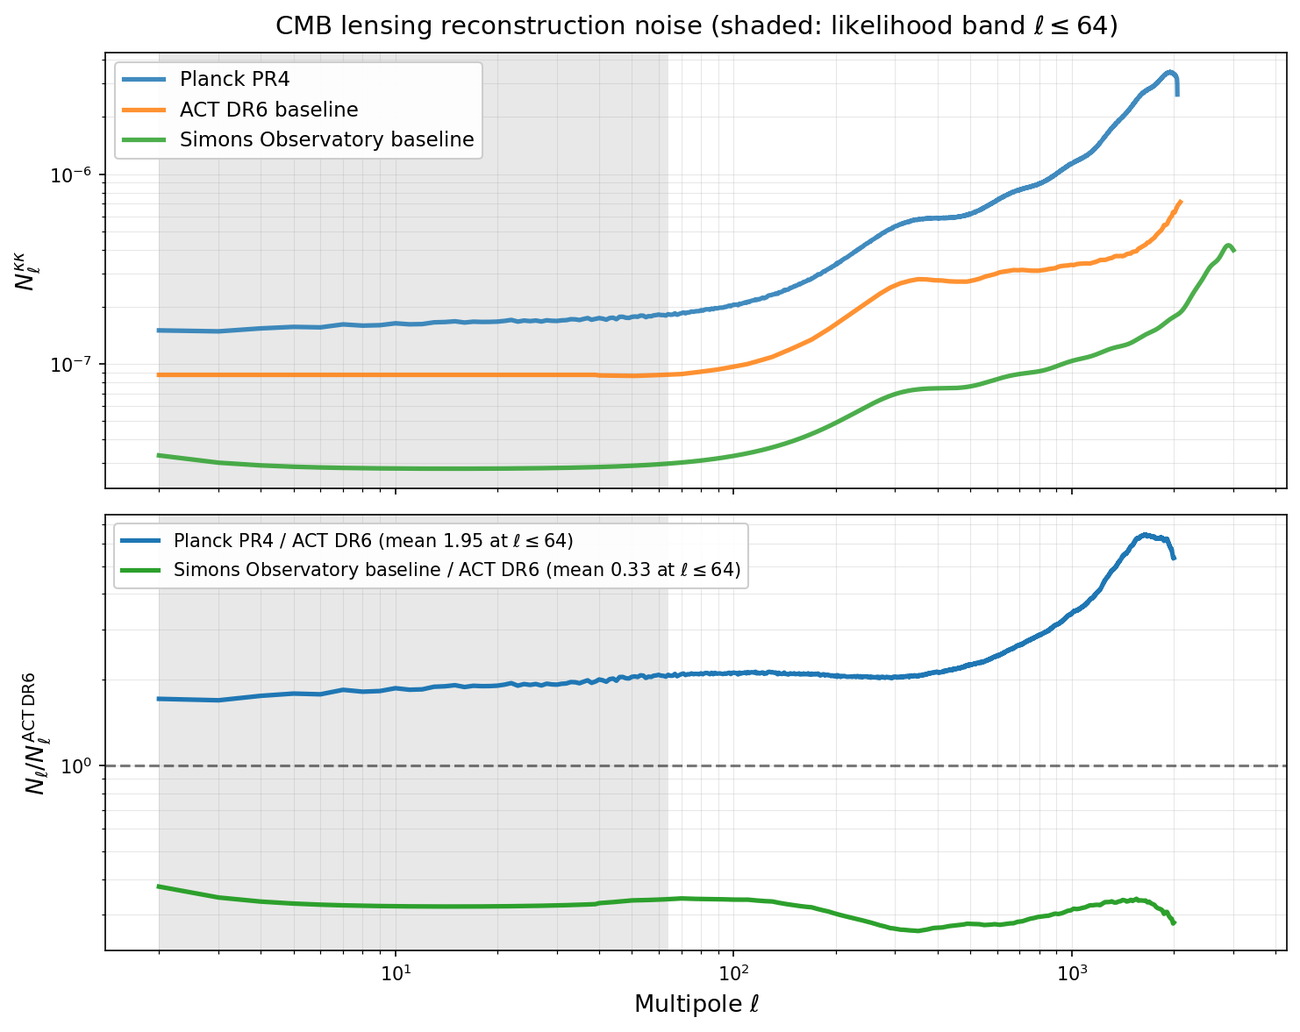
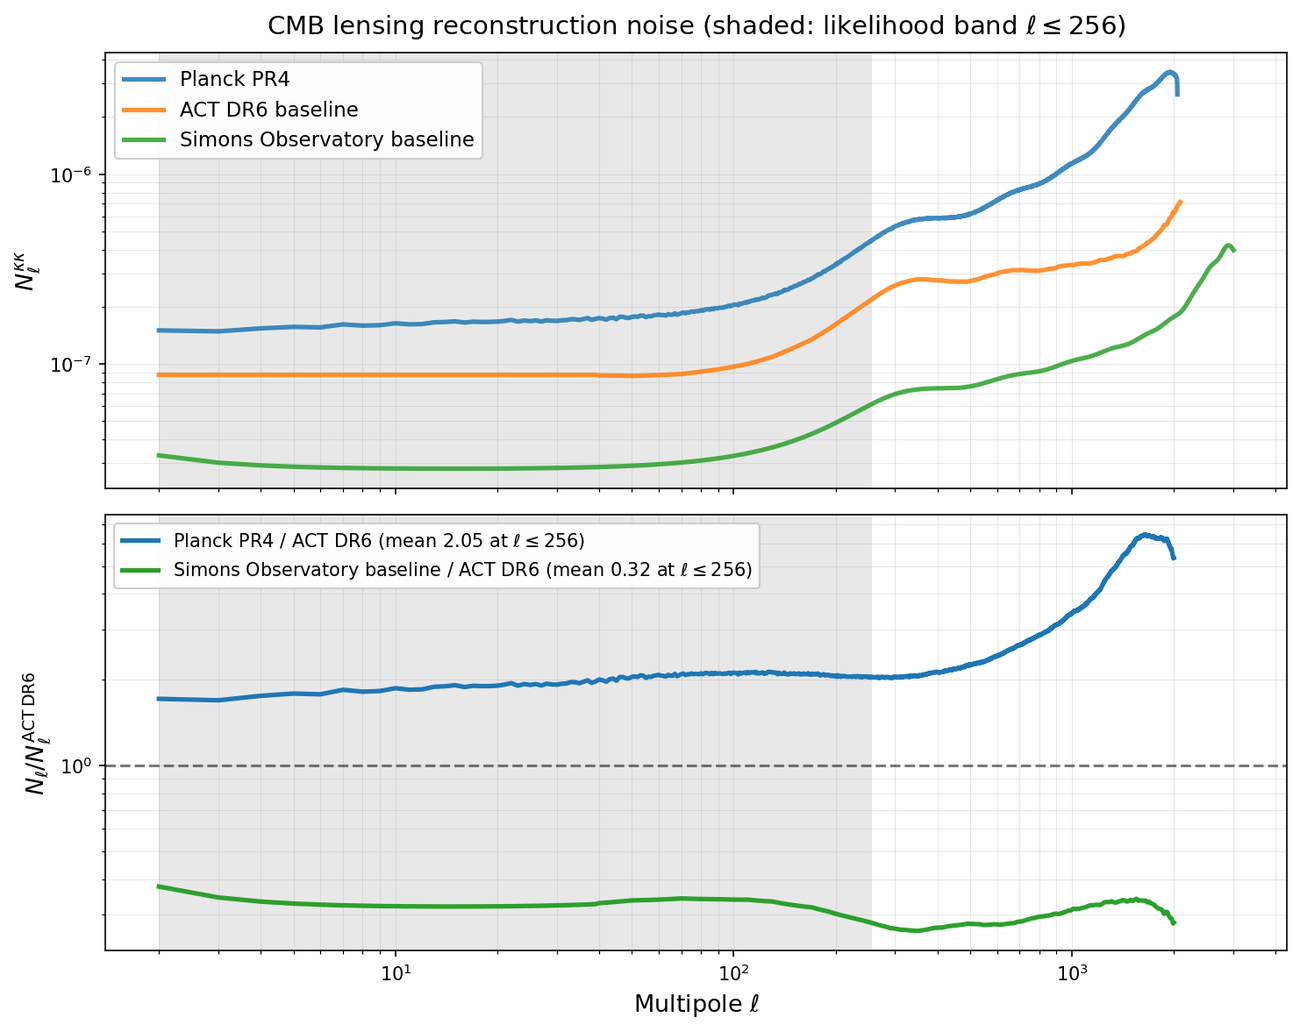
Docs against the code: held noise 0.900/0.214, Fisher with C_l^out as signal for the exact runs, joint true-IC numbers with the shell gains, light cone at the Lagrangian radius, shell cut refused without the LOS term, warm start 2/3 (H. Simon-Onfroy); ph201 closure offset compatible with the realisa

Changed region(s): [[0.2173, 0.0, 0.8691, 0.0306], [0.5587, 0.52, 0.5897, 0.5811], [0.4035, 0.52, 0.4345, 0.5506]]

diff --git a/scripts/plot_cmb_noise_comparison.py b/scripts/plot_cmb_noise_comparison.py
@@ -1,12 +1,15 @@
 #!/usr/bin/env python
 """
-Plot the CMB lensing reconstruction noise of Planck PR4, ACT DR6 and the Simons Observatory baseline.
+Plot the CMB lensing noise of a run config, and the noise of Planck PR4, ACT DR6 and the SO baseline.
 
-Top: N_ell^kappa_kappa of the three; bottom: each over ACT DR6. The shaded band is the multipole range
-of the likelihood (ell <= 2 nside = 64). The SO curve is the file the paper's runs use (pipeline 3.2).
+`cmb_noise_so.png` (the paper's fig:noise): the config's N_ell (the SO baseline in every run of the
+paper), N_ell + C_ell^out (the variance the diagonal likelihood adds per multipole, at the config's
+fiducial, pipeline 3.2) and the likelihood band ell <= 2 nside; the curves go to the npz.
+`cmb_noise_comparison.png` (thesis): N_ell of Planck PR4, ACT DR6 and SO, each over ACT DR6, with the
+same band.
 
 Usage:
-    python scripts/plot_cmb_noise_comparison.py [--output OUTPUT_DIR] [--lmax_band 64]
+    python scripts/plot_cmb_noise_comparison.py [--config CONFIG] [--output OUTPUT_DIR]
 """
 
 import argparse
@@ -15,9 +18,13 @@ from pathlib import Path
 import matplotlib.pyplot as plt
 import numpy as np
 
+from desi_cmb_fli import utils
+from desi_cmb_fli.model import get_model_from_config
+
 PLANCK = "/global/cfs/cdirs/cmb/data/planck2020/PR4_lensing/PR4_nlkk_p.dat"
 ACT = "data/N_L_kk_act_dr6_lensing_v1_baseline.txt"
 SO = "data/N_L_kk_so_v3_1_1_baseline_mv.txt"
+CONFIG = "configs/inference/abacus/abacus_kappaonly_so_cosmo_box5000_m160_ph202.yaml"
 
 
 def load_planck_nlkk(filepath=PLANCK):
@@ -32,9 +39,39 @@ def load_two_columns(filepath):
     return data[:, 0].astype(int), data[:, 1]
 
 
-def plot_comparison(output_dir="figures", lmax_band=64):
-    output_dir = Path(output_dir)
-    output_dir.mkdir(parents=True, exist_ok=True)
+def plot_run_noise(config, output_dir):
+    """N_ell and N_ell + C_ell^out of the config, with its likelihood band. Returns ell_max."""
+    model, _ = get_model_from_config(utils.yload(config))
+    ell = np.asarray(model.ell_1d)
+    nell = np.asarray(model.nell_1d)
+    cl_out = np.asarray(model.cl_out_cached)
+    lmax = int(model.cmb_lmax)
+    so_ell, so_nl = load_two_columns(SO)
+
+    fig, ax = plt.subplots(figsize=(7, 4.5))
+    ax.axvspan(2, lmax, color="0.88", lw=0, label=rf"likelihood band $2\leq\ell\leq{lmax}$")
+    m = (so_ell >= 2) & (so_ell <= 1000)
+    ax.loglog(so_ell[m], so_nl[m], color="C2", lw=2, label=r"$N_\ell$ (Simons Observatory baseline)")
+    s = ell >= 2
+    ax.loglog(ell[s], nell[s] + cl_out[s], color="C3", lw=2,
+              label=r"$N_\ell + C_\ell^{\rm out}$")
+    ax.set_xlabel(r"Multipole $\ell$", fontsize=12)
+    ax.set_ylabel(r"$C_\ell$", fontsize=12)
+    ax.legend(loc="upper left", fontsize=10)
+    ax.grid(True, which="both", alpha=0.3, lw=0.5)
+    plt.tight_layout()
+    outfile = output_dir / "cmb_noise_so.png"
+    plt.savefig(outfile, dpi=200, bbox_inches="tight")
+    plt.close()
+    np.savez(outfile.with_suffix(".npz"), ell=ell, nell=nell, cl_out=cl_out, config=config)
+    print(f"C_out / N over ell 2-{lmax}: {cl_out[s].sum() / nell[s].sum():.3f} (sums), "
+          f"at ell 2, 64, 128, {lmax}: "
+          + ", ".join(f"{cl_out[i] / nell[i]:.2f}" for i in (2, 64, 128, lmax)))
+    print(f"Saved: {outfile} and .npz")
+    return lmax
+
+
+def plot_comparison(output_dir, lmax_band):
     curves = {
         "Planck PR4": load_planck_nlkk(),
         "ACT DR6 baseline": load_two_columns(ACT),
@@ -60,7 +97,7 @@ def plot_comparison(output_dir="figures", lmax_band=64):
     )
 
     ax = axes[1]
-    print(f"Mean ratio to ACT DR6 over ell 2-{lmax_band} and 65-2000:")
+    print(f"Mean ratio to ACT DR6 over ell 2-{lmax_band} and above:")
     for label in ("Planck PR4", "Simons Observatory baseline"):
         ell, nl = curves[label]
         common = np.arange(2, min(2001, act_ell.max() + 1, ell.max() + 1))
@@ -73,7 +110,8 @@ def plot_comparison(output_dir="figures", lmax_band=64):
             color=colors[label],
             label=f"{label} / ACT DR6 (mean {ratio[band].mean():.2f} at $\\ell \\leq {lmax_band}$)",
         )
-        print(f"  {label}: {ratio[band].mean():.3f}, {ratio[~band].mean():.3f}")
+        print(f"  {label}: {ratio[band].mean():.3f} (range {ratio[band].min():.3f}-"
+              f"{ratio[band].max():.3f}), {ratio[~band].mean():.3f}")
     ax.axhline(1, color="black", ls="--", lw=1.5, alpha=0.5)
     ax.set_yscale("log")
     ax.set_xlabel(r"Multipole $\ell$", fontsize=13)
@@ -90,20 +128,18 @@ def plot_comparison(output_dir="figures", lmax_band=64):
 
 def main():
     parser = argparse.ArgumentParser(description=__doc__.strip().split("\n")[0])
+    parser.add_argument("--config", default=CONFIG, help=f"run config (default: {CONFIG})")
     parser.add_argument(
         "--output",
         "-o",
         default="figures/spectra_diagnostic",
         help="output directory (default: figures/spectra_diagnostic/)",
     )
-    parser.add_argument(
-        "--lmax_band",
-        type=int,
-        default=64,
-        help="top of the likelihood band, 2 nside (default: 64)",
-    )
     args = parser.parse_args()
-    plot_comparison(output_dir=args.output, lmax_band=args.lmax_band)
+    output_dir = Path(args.output)
+    output_dir.mkdir(parents=True, exist_ok=True)
+    lmax = plot_run_noise(args.config, output_dir)
+    plot_comparison(output_dir, lmax)
 
 
 if __name__ == "__main__":

diff --git a/src/desi_cmb_fli/model.py b/src/desi_cmb_fli/model.py
@@ -1786,9 +1786,9 @@ class FieldLevelModel(Model):
             pos_rsd = pos + rsd(cosmology, vel, rsd_los, a_part, _bshape, _mshape, dvel=fog_dvel)
             pos_rsd = deterministic("rsd_pos", pos_rsd)
 
-            # CIC paint weighted by Lagrangian bias expansion weights. The painted field is
-            # counts-per-final-cell (mean = ptcl/final cells); divide by that fixed factor to
-            # recover the 1 + delta_g overdensity (identity when ptcl_oversamp=1).
+            # CIC paint weighted by Lagrangian bias expansion weights, on the paint grid (crop=False).
+            # The painted field is counts per paint cell (mean = ptcl/paint cells); divide by that
+            # fixed factor to recover 1 + delta_g (identity when the two grids are equal).
             ptcl_per_cell = float(np.prod(self.ptcl_shape) / np.prod(self.paint_shape))
             gxy_paint = (
                 self.paint_and_deconv(

diff --git a/docs/pipeline.md b/docs/pipeline.md
@@ -153,8 +153,9 @@ The init field is `chreshape`d up to the **evol grid** (`evol_oversamp`) and evo
 - **LPT** (1st/2nd order, default `lpt_order: 2`), or
 - **N-body** (BullFrog integrator, `diffrax`) — snapshot only, no lightcone.
 
-**Lightcone** (`lightcone: true`, `a_obs: null`): each particle evolves at its local scale factor
-`a(χ)` from its comoving radius; snapshot mode uses a scalar `a_obs`.
+**Lightcone** (`lightcone: true`, `a_obs: null`): each particle evolves at the scale factor `a(χ)` of
+its Lagrangian (undisplaced) position, which also sets its bias weights and Finger-of-God term; the RSD uses the
+displaced position; snapshot mode uses a scalar `a_obs`.
 
 **Background emulator (`nbody.BackgroundEmulator`).** Growth `D`, `D₂`, rates `f`, `f₂`, and the
 distance maps `χ(a)`/`a(χ)` are served — **in `nbody` only** — by a **bilinear emulator** rather than
@@ -423,7 +424,8 @@ under its radial profile (top hat or tent). `shell_kmax` defaults to the Nyquist
 inferred (init) grid, π / (init cell); the final-grid Nyquist sends structure the model resolves
 to the covariance, and a lower cut makes the out-of-model gain grow and the coherence fall (§7.12,
 §7.19). `shell_kmax: 0` switches the
-cut off, and it is off without `full_los_correction`, which carries the removed power. A shell with
+cut off, and without `full_los_correction`, which carries the removed power, it defaults to off and a
+`shell_kmax > 0` is refused. A shell with
 ℓ_res below the band edge 2·nside gets the cosine taper of jax-fli: 1 up to ℓ_cut − ℓ_cut//4, 0 from
 ℓ_cut = ⌊ℓ_res⌋; a shell that resolves no multipole is removed whole (jax-fli floors ℓ_cut at 4
 instead). The shells cut are those with r_eff < 2·nside/`shell_kmax`: at fixed init grid, a higher
@@ -1051,7 +1053,9 @@ with `scale = √(1 + B(k,μ)²·P(k)/noise_eff)`, `transfer = √P(k)/scale`
 only when `los: null` disables RSD. The effective noise is `noise_eff = 1/(n̄·⟨S²⟩)` whenever a
 selection mesh is present (§3.1), falling back to `1/n̄` otherwise. `kaiser` evaluates the boost and
 `P` at the **fiducial** cosmology (fixed preconditioner), `kaiser_dyn` at the sampled one. In
-galaxy/joint modes the warmup initial field is a "reverse-Kaiser" estimate from the galaxy data; in
+galaxy/joint modes the warmup initial field is a "reverse-Kaiser" estimate from the galaxy data (a draw of
+the Kaiser posterior, `kaiser_post`, scaled by `scale_field` 2/3 in `run_inference.py`, the value H. Simon-Onfroy set after tests in montecosmo,
+whose current scripts take 7/8); in
 **CMB-only** mode (`n_gal^{eff}=0` ⇒ `noise_eff=∞`) `scale=1`, `transfer=√P(k)` (pure prior — the field is constrained only through κ),
 the initial field is a random Gaussian draw, and the biases are fixed to fiducial (galaxy calculations
 skipped).
@@ -1122,7 +1126,7 @@ measures and the conventions that make its output comparable with the model.
 | `fisher_cosmo.py` | Fisher on (`Omega_m`, `sigma8`, `b1`, `b∇²`[, `b1_alpha`, `f_NL`]) of galaxies, κ and joint at a config's geometry, band, noise and priors; `--resolution_scan` over box and cell; `--mismatch FILE` the first-order shift F⁻¹b from a per-ℓ data/model κ power ratio, `b_a = f_sky Σ (2ℓ+1)/2 tr(C⁻¹∂_aC C⁻¹ΔC)` (§7.10) | `figures/fisher_diagnostic/` |
 | `density_scan.py` | measured paired gain on σ(`f_NL`) against the Fisher, per density of `scan/density_scan_runs.yaml`; `--noise_table` the gain per `N_ℓ` scaling (§7.2, §7.3) | `figures/results/density_scan.{png,json}` |
 | `compare_linear_power.py` | the model's linear P(k) (and Eisenstein–Hu) against the CLASS spectrum of the Abacus ICs; `--omega_m_scan` the emulator, the former EH × fiducial ratio and EH against CLASS as `Omega_m` moves, from the reference written by `linear_power_class_reference.py` (cosmodesi env, cosmoprimo) (§7.11) | `figures/spectra_diagnostic/linear_power_*` |
-| `plot_cmb_noise_comparison.py` | Planck PR4, ACT DR6, SO baseline `N_ℓ` and their ratio to ACT, likelihood band shaded | `figures/spectra_diagnostic/cmb_noise_comparison.png` |
+| `plot_cmb_noise_comparison.py` | a run config's `N_ℓ` and `N_ℓ + C_ℓ^out` (its fiducial) with the likelihood band ℓ ≤ 2 nside (`fig:noise`); Planck PR4, ACT DR6, SO baseline `N_ℓ` and their ratio to ACT, same band (thesis) | `figures/spectra_diagnostic/cmb_noise_so.{png,npz}`, `cmb_noise_comparison.png` |
 | `plot_lensing_fraction.py` | Limber κ power along the line of sight at a config's geometry (default the box-5000 joint): fraction captured against depth, model shells, map, beyond the box, the model's out-of-model term `w_ℓ² C_ℓ^out`, `N_ℓ` of the config; per band, the share of a real map's out-of-model variance the likelihood holds (§3.2) | `figures/lensing_fraction/` |
 | `plot_2D_maps.py` | κ and galaxy-projection maps of one forward realisation (the galaxy panel ray-casts the mesh, display only) | `figures/maps/` |
 | `benchmark_cl_out_modes.py` | the `fixed` out-of-model term against `exact` over an (`Omega_m`, `sigma8`) grid at a config's geometry: band error and expected error on ln L (KL, nats); halofit against linear at the fiducial, and against the term's fiducial halofit boost at four points around it; per-ℓ curves in the npz (§7.18) | `figures/cl_out_modes/` |
@@ -2142,7 +2146,7 @@ field level the quasi-linear regime is where information beyond the power spectr
 Nguyen et al. 2024 (PRL, arXiv:2403.03220; halos, real space, 8 (Gpc/h)³) find σ8 3.5 × tighter than
 P + B at k_max = 0.10 with the same modes and model. The grids measured here keep box 5000 and put κ
 at nside 128 (ℓ ≤ 256), the initial field on 240³ cells (k_N 0.151 h/Mpc) and 280³ particles on a
-280³ paint grid (spacing 17.9 Mpc/h); the final galaxy grid is mesh 160 (cell 31.25, k_N 0.10) or
+280³ paint grid (spacing 17.9 Mpc/h; the final configs paint on 260³, §2.5, §7.16); the final galaxy grid is mesh 160 (cell 31.25, k_N 0.10) or
 mesh 100 (cell 50, k_N 0.063), with the same init, particle and paint grids and the same κ settings.
 Configs: `abacus/abacus_{gxyonly,kappaonly_so,joint_so}_cosmo_box5000_m160.yaml`,
 `validation/closure_{box5000,kappaonly_abacus_ic_box5000}_m160.yaml`,
@@ -2258,9 +2262,17 @@ Configs: `abacus/abacus_{gxyonly,kappaonly_so,joint_so}_cosmo_box5000_m160.yaml`
   alone, and the κ gain of the joint): mesh 160 (`figures/fisher_diagnostic/fisher_cosmo_box5000_m160_so_b1alpha.{png,json}`)
   0.0018 / 0.0111, 5 % / 48 % (line of sight as signal 7 % / 66 %; κ alone 0.0147 / 0.0157 as noise,
   0.0074 / 0.0065 as signal); mesh 140 0.0023 / 0.0134, 7 % / 54 %;
-  mesh 120 0.0035 / 0.0171, 16 % / 61 %; mesh 100 0.0042 / 0.0220, 20 % / 67 %
+  mesh 120 0.0035 / 0.0171, 16 % / 61 %; mesh 100 0.0042 / 0.0220, 20 % / 67 % (as signal, the runs' `cl_out_mode:
+  exact`: joint 0.0031 / 0.0044, 27 % / 80 % at mesh 100; 21 % / 76 %, 10 % / 71 % at mesh 120, 140)
   (`fisher_cosmo_box5000_m{100,120,140}_so_b1alpha.{png,json}`: the m100 joint config, and the same at
   cells 5000/120 and 5000/140 with the 240³ and 280³ grids kept). Mesh 54 (§7.10): 0.0109 / 0.0523.
+- Cost of the final joint at mesh 100 (`bench_gradient.py` on `validation/closure_box5000_m100_ph202.yaml`,
+  `JAX_ENABLE_X64=1`, one A100 80 GB, job 61566057 of 2026-11-19): one gradient 1.506 s, compile 313 s, peak
+  41.1 GiB with the shell gains, against 1.548 s, 381 s, 37.6 GiB with the single gain (code of 29801a2). The
+  same bench on a CPU node fails at compile (LLVM out of section memory at 24 GB resident, both codes). The model
+  build takes ≈ 15 min on CPU: 13 of them are the exact-over-Limber ratio of the out-of-model term
+  (`exact_over_limber`, SciPy's `spherical_jn` on a 2388 × 1480 (k, χ) grid at each ℓ ≤ 256, ≈ 3 s per ℓ), the
+  rest the background emulator (83 s); the shell gains themselves take 0.6 s (`logs/slow_init/`, CPU job 61567732).
 - Cost (`bench_gradient.py --box 5000 --mesh 160 --particles 280`, `JAX_ENABLE_X64=1`, one A100 80 GB):
   one joint gradient at nside 128 1.309 s, peak 37.1 GiB, compile 336 s (nside 32: 0.821 s, 36.1 GiB;
   float32 the same, 0.819 s), against 0.29 s at mesh 54 (median batch of the mesh-54 joint, 500
@@ -2780,7 +2792,12 @@ matter left out that the shells explain, c·C_MB, is 0.7 / 1.4 / 2.8 / 2.3 % of 
 `fig:kappa_from_ic`; without the cut A 0.989 / 0.982 / 0.814 / 0.579, the coherence below its curve and the error
 power above `C^LOS` from ℓ ≈ 150, (C^mm + C^LOS)/C^tt up to 1.3 at ℓ ≈ 250): A 1.003 ± 0.015 / 0.996 ± 0.012 / 1.002 ± 0.013 / 0.990 ± 0.017 (ph201) and 0.988 / 1.008 / 0.989 / 0.998
 (ph202) in ℓ 2–64 / 65–128 / 129–192 / 193–256, within 0.005 of the single gain's, the coherence and the error power
-on their curves.
+on their curves. The joint true-IC test with the shell gains (CPU job 61546709 of 2026-11-18, the paper's `fig:joint_ic`,
+`figures/joint_ic_test/abacus_joint_so_cosmo_box5000_m100_ph202.{png,json}`), C_κg Abacus over model in the seven bands
+above: 0.968 ± 0.072 / 1.016 ± 0.050 / 0.990 ± 0.027 / 0.986 ± 0.019 / 0.993 ± 0.014 / 0.995 ± 0.012 / 1.170 ± 0.010
+with the galaxy maps from the galaxies, 1.046 ± 0.076 / 1.008 ± 0.049 / 1.006 ± 0.027 / 0.988 ± 0.019 / 0.994 ± 0.016 /
+1.017 ± 0.021 / 1.037 ± 0.095 with the galaxies the likelihood holds; model κ × Abacus galaxies over the model 0.963 in
+ℓ 2–10, 0.995–1.004 above.
 
 **The box faces** (same job, `stage1.py --faces`: the whitened residual at the true ICs over the noise law
 fitted on all cells, `z²`, against the distance to the nearest face of the cube the model treats as
@@ -2932,7 +2949,8 @@ the next evidence.
 `abacus/abacus_gxyonly_cosmo_box5000_m100_ph202.yaml`). At the true ICs with the order-3 biases refitted,
 χ²/N (n̄S) 0.9372 (ph201: 0.8473 at order 3): `b1` 1.197, `b1_alpha` 1.019, `b2` 0.351, `b_{s²}`
 −0.165, `bn2` 15.8, `b3` −1.11, `bds2` −0.39, `bs3` 0.54, `bnpar` −34.5; the noise fit `s_e` 0.9607, `s_ed`
-0.2362 (ph201 0.9139, 0.2269) is the centre of the ph202 configs' noise prior. Galaxy profile in A with
+0.2362 (ph201 0.9139, 0.2269) was then the centre of the ph202 configs' noise prior; with the selection without
+counting noise the fit is 0.900, 0.214 (ph201 0.901, 0.221), which the final configs hold (§7.19, final configuration). Galaxy profile in A with
 the order-2 biases profiled (`figures/galaxy_likelihood_profile/abacus_gxyonly_cosmo_box5000_m100_ph202_amplitude.json`,
 407 894 cells): χ² 388 399, 386 993, 386 731, 387 614 at A = 0.90, 0.95, 1.00, 1.05, parabola minimum A =
 0.986. Abacus `P_gg` over the model at the config's `truth_params` biases (`b1` 1.15, the others 0;
@@ -3018,8 +3036,8 @@ map's with its noise draw, found by the two-point analysis as well, and not a bi
 His theory is Limber at every ℓ: our exact-over-Limber ratio applied to his grid moves his closure posterior by
 +0.0007 / −0.0008 (0.1σ, `logs/twopt_limber/limber_check.py`). His likelihood of the bandpowers is Gaussian; with the
 Wishart likelihood of full-sky bandpowers in its place his posterior barely moves (his test, reported 2026-11-16, not in
-his repository), so the Gaussian is kept: the Wishart form has no tractable counterpart on a masked sky. In the paper: `fig:twopt` (closure, §6, the method),
-`fig:twopt_cl` and `fig:twopt_abacus` (ph202, §5, the κ model).
+his repository), so the Gaussian is kept: the Wishart form has no tractable counterpart on a masked sky. In the paper: the closure
+comparison (§6, the method) as numbers without a figure, `fig:twopt_cl` and `fig:twopt_abacus` (ph202, §5, the κ model).
 
 ## 8. Remaining steps before the paper
 
@@ -3090,7 +3108,8 @@ the production step and path length before production runs):
    data cannot come from a fit at the true ICs: first a galaxies-alone ph202 run with a wide prior (scale 0.1)
    or a lower bound only (Nguyen et al. bound the noise at 0.8 of Poisson) — if `sigma8` does not move, the data
    set the level; otherwise the centre and width from the same fit on mocks with known ICs spanning DESI-LRG
-   HODs with satellites (ph201 and ph202, one HOD, differ by 0.047 in `s_e`: 0.9139 / 0.9607). The ph202
+   HODs with satellites (ph201 and ph202, one HOD: `s_e` 0.901 / 0.900 with the selection without counting noise,
+   0.9139 / 0.9607 with the randoms' selection). The ph202
    production configs hold the noise at the fit at the true ICs, so they do not make this test. A noise field
    with density-dependent and quadratic couplings (arXiv:2511.05484) removes the need for an informative prior.
 3. **The runs at the chosen grid** (galaxies alone, κ alone, joint). The two standard checks of the grid are done on
@@ -3110,21 +3129,18 @@ the production step and path length before production runs):
    a second κ noise draw in `abacus/abacus_kappaonly_so_cosmo_box5000_noise2.yaml`) stay ready as the
    fallback. `kappa_stiffness.py` at nside 128 runs out of memory in reverse-over-reverse (§7.19):
    forward-over-reverse Hessian-vector products, or the step size read from the warm-up.
-4. **The field level against a two-point analysis on the same data and scales**: C_ℓ^κκ, C_ℓ^κg (C.
-   Payerne) and P₀, P₂ (A. de Mattia), closure first, at the scales of the final analysis (the galaxy likelihood holds
+4. **The field level against a two-point analysis on the same data and scales**: C_ℓ^κκ (C. Payerne,
+   whose pipeline analyses κ maps; no C_ℓ^κg) and P₀, P₂ (A. de Mattia), closure first, at the scales of the final analysis (the galaxy likelihood holds
    every mode of the final cube, |k_i| ≤ k_N, corners to √3 k_N). For κ,
    the map is the exported `kappa_obs` of the κ-only closure on the ph201 ICs at the chosen configuration
    (`plot_2D_maps.py --config <run>/config/config.yaml --from-run <run> --save-healpix`; at nside 128 /
    mesh 160 the model does not build on a login node, and the map is the run's `kappa_obs_packed`
    resynthesised at nside 128 with healpy). Done for C_ℓ^κκ (§7.20): the 200-map validation of the theory, the
    closure map (the method) and the AbacusLensing maps of both skies (the κ model). Covariance
-   realisations at this configuration (the nside-128 set of §7.19 does not serve): from the joint
-   config at the closure truth (no script yet), per realisation a new initial
-   field and noise draw, and from that same field the κ map (with `N_ℓ` and w_ℓ) and the
-   galaxy count mesh with its selection for P(k); 200 realisations, κ first (it does not depend on the
-   galaxy truth). The galaxy truth: the biases and noise of the galaxies-alone posterior at that grid. The
-   galaxy angular map for C_ℓ^κg (from the particles, noiseless, or from the count mesh, with the cell
-   window) is settled with C. Payerne. To settle with A. de Mattia:
+   realisations of the galaxies at this configuration, if the P(k) analysis needs them: from the galaxies-alone
+   config at the closure truth (no script yet), per realisation a new initial field and noise draw, the galaxy
+   count mesh with its selection; the galaxy truth is the biases and noise of the galaxies-alone posterior at
+   that grid. To settle with A. de Mattia:
    the data as the catalogue or as our count mesh and selection; the modes (k ≤ k_N, or the cube's to
    its corners); the single light-cone shell z 0.4–1.1 with an evolving bias against redshift bins;
    the bias, counterterm and noise parameters and their priors. Protocol fixed before either analysis runs: the two-point
@@ -3135,7 +3151,7 @@ the production step and path length before production runs):
    produced first, the field-level posterior on the same map not sent before. The theory that matches
    the map is w_ℓ² `C_ℓ^κκ` of the matter in 292.6 < χ < 3750 Mpc/h (source z 1089.28) plus `N_ℓ`;
    `Omega_m` is total matter (one 0.06 eV neutrino inside it) and `sigma8` that of the CDM + baryon
-   spectrum (§4). The protocol puts `fig:twopt` in the paper.
+   spectrum (§4). The paper gives the closure comparison as numbers (§6) and `fig:twopt_abacus` (§5).
 5. **`f_NL` (second paper, `fnl_paper/` of the paper repository).** Montecosmo's PNG noise term `s_ep`
    (std `+ s_ep·φ` next to `s_e`, `s_ed`, §3.1), ported with the `f_NL` latents and kept positive like
    them; the `f_NL` pair (`abacus/abacus_gxyonly.yaml`, `abacus/abacus_joint_Nl1p0.yaml`) and the
@@ -3185,14 +3201,16 @@ script given: the triangle and the paired gains (06, `compare_runs.py`,
 and its `_slices.png` for `fig:field_slices`), the κ IC test (02, 05, `validate_kappa_from_ic.py`), the 3-D
 spectra (05, `quick_pk_spectra.py`), the angular spectra (05, `quick_cl_spectra.py`, 20 realisations,
 seed 77), the maps (04, `plot_2D_maps.py`), the Fisher contours (06, `fisher_cosmo.py --b1_alpha`), the
-lensing fraction (`plot_lensing_fraction.py`), the two-point comparison (§7.20: `fig:twopt` 06 and
-`fig:twopt_abacus` 05, `plot_twopt_overlay.py`; `fig:twopt_cl` 05, C. Payerne's figures in `figures/twopt_payerne/`).
+lensing fraction (`plot_lensing_fraction.py`), the two-point comparison (§7.20: `fig:twopt_abacus` 05, `plot_twopt_overlay.py`; `fig:twopt_cl` 05, C. Payerne's figures in `figures/twopt_payerne/`).
 The κ IC test with and without the per-shell cut is one figure (`fig:kappa_from_ic`, 05, cited from 02 for the
 cut; `validate_kappa_from_ic.py --shell_kmax 0 0.1508`), and the joint IC test `fig:joint_ic` (05,
-`validate_joint_from_ic.py`). With no file yet: `fig:lattice` (02: the lattice template and its S/N against the particle spacing, from
-`figures/kappa_lattice_template/`), `fig:tents` (02, a schematic),
-`fig:cosmo` (06: the triangle of `compare_runs.py` with the Fisher ellipses of `fisher_cosmo.py` overlaid, to add); `fig:noise` (03) lacks the signal and `C_ℓ^out`;
-`docs/figures/fli_architecture.png` (02) lacks the out-of-model term and the per-shell cut. Records,
+`validate_joint_from_ic.py`), and the lattice template `fig:lattice` (02,
+`figures/kappa_lattice_template/kappa_template_map_and_spacing.png`, `plot_lattice_template.py`); the tents are given by their formula, without a figure. With no file yet:
+`fig:cosmo` and `fig:triangle` (06: the triangle of `compare_runs.py` with the Fisher
+ellipses of `fisher_cosmo.py` overlaid, after the runs). The noise figure `fig:noise` (03, `cmb_noise_so.png`) and the
+comparison with Planck PR4 and ACT DR6 (thesis, `cmb_noise_comparison.png`) come from `plot_cmb_noise_comparison.py`;
+the architecture `fig:architecture` (02) is TikZ in the paper repository (`paper/figures/fli_architecture.tex`),
+`docs/figures/fli_architecture.png` rendered from it. Records,
 not regenerated: `results/reconstruction_noise_ladder_250.png` (06, script not in the repository) and
 `lensing_fraction/highz_correction_vs_depth.png` (made before the per-shell cut and box 5000).
 
